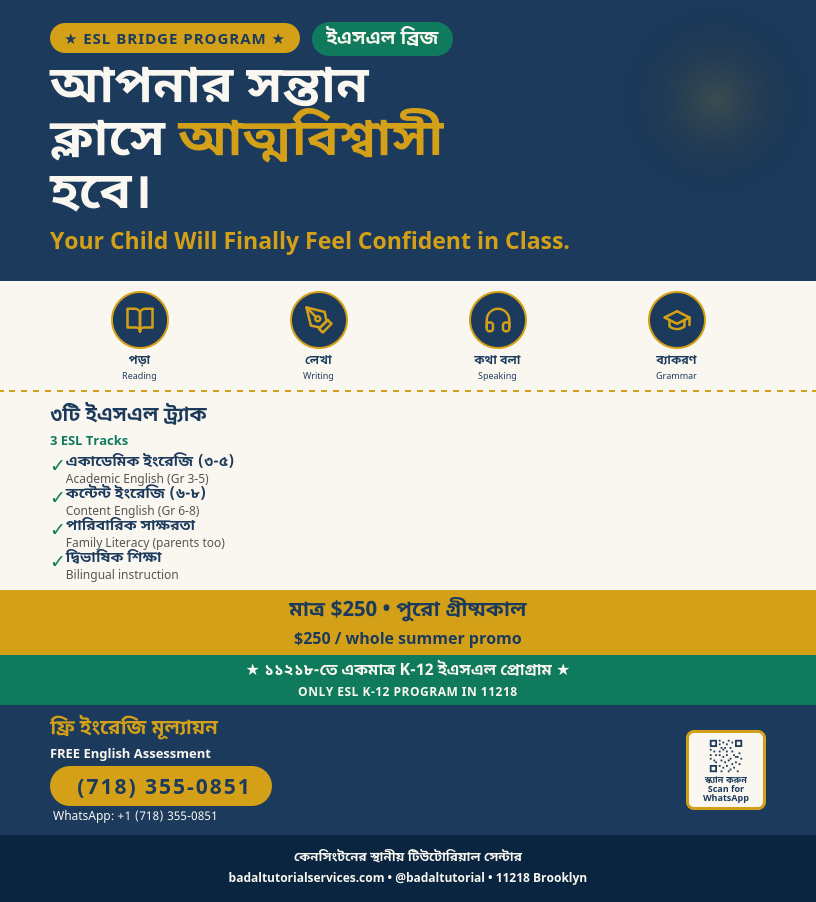
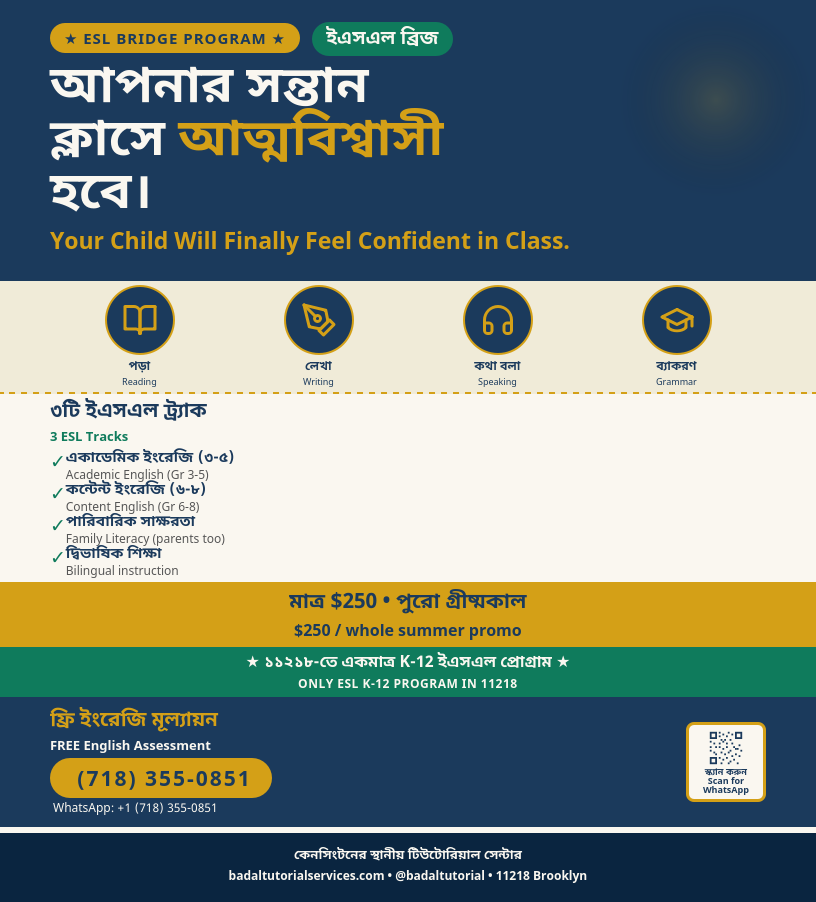
Regents: shrink hero 38pt→34pt, render at 9.5in for visible footer

diff --git a/flyers/regents-bn.html b/flyers/regents-bn.html
@@ -18,7 +18,7 @@
   .hero::before { content: ''; position: absolute; top: 0; right: 0; width: 200px; height: 200px; background: radial-gradient(circle, rgba(212,160,23,0.18) 0%, transparent 70%); }
   .badge { display: inline-block; background: #D4A017; color: #1B3A5C; padding: 4px 14px; border-radius: 18px; font-size: 11pt; font-weight: 700; letter-spacing: 1px; margin-bottom: 10px; font-family: 'BodySans', sans-serif; }
   .badge-bn { display: inline-block; background: #0F7B5C; color: #FAF7F0; padding: 4px 14px; border-radius: 18px; font-size: 14pt; font-weight: 700; margin-left: 8px; font-family: 'BnFont', sans-serif; }
-  .headline-bn { font-family: 'BnFont', 'Noto Sans Bengali', sans-serif; font-size: 38pt; font-weight: 700; line-height: 1.05; color: #FAF7F0; margin-bottom: 6px; }
+  .headline-bn { font-family: 'BnFont', 'Noto Sans Bengali', sans-serif; font-size: 34pt; font-weight: 700; line-height: 1.05; color: #FAF7F0; margin-bottom: 6px; }
   .headline-bn .accent { color: #D4A017; }
   .headline-en { font-family: 'BodySans', sans-serif; font-size: 17pt; font-weight: 900; line-height: 1.1; color: #D4A017; margin-bottom: 4px; }
 
@@ -29,7 +29,7 @@
   .illust-label { font-family: 'BnFont', sans-serif; font-size: 9pt; font-weight: 700; color: #1B3A5C; }
   .illust-label-en { font-family: 'BodySans', sans-serif; font-size: 7pt; color: #1B3A5C; }
 
-  .body-bn { padding: 10px 50px 8px; background: #FAF7F0; }
+  .body-bn { padding: 8px 50px 6px; background: #FAF7F0; }
   .body-title { font-family: 'BnFont', sans-serif; font-size: 15pt; font-weight: 700; color: #1B3A5C; margin-bottom: 1px; }
   .body-title-en { font-family: 'BodySans', sans-serif; font-size: 10pt; font-weight: 700; color: #0F7B5C; margin-bottom: 5px; }
   .body-grid { display: grid; grid-template-columns: 1fr 1fr; gap: 3px 22px; }
@@ -42,7 +42,7 @@
   .price-bn { font-family: 'BnFont', 'Noto Sans Bengali', sans-serif; font-size: 16pt; font-weight: 700; margin-bottom: 1px; }
   .price-en { font-family: 'BodySans', sans-serif; font-size: 12pt; font-weight: 700; }
 
-  .trust { background: #0F7B5C; color: #FAF7F0; padding: 5px 50px; text-align: center; }
+  .trust { background: #0F7B5C; color: #FAF7F0; padding: 4px 50px; text-align: center; }
   .trust-bn { font-family: 'BnFont', sans-serif; font-size: 12pt; font-weight: 700; margin-bottom: 1px; }
   .trust-en { font-family: 'BodySans', sans-serif; font-size: 9pt; font-weight: 700; letter-spacing: 0.5px; }
 

diff --git a/flyers/esl-bn.html b/flyers/esl-bn.html
@@ -23,14 +23,14 @@
   .headline-bn .accent { color: #D4A017; }
   .headline-en { font-family: 'BodySans', sans-serif; font-size: 17pt; font-weight: 900; line-height: 1.1; color: #D4A017; margin-bottom: 4px; }
 
-  .illustration { background: #FAF7F0; padding: 10px 50px 8px; display: flex; justify-content: space-around; align-items: center; gap: 16px; border-bottom: 2px dashed #D4A017; }
+  .illustration { background: #FAF7F0; padding: 4px 50px 4px; display: flex; justify-content: space-around; align-items: center; gap: 16px; border-bottom: 2px dashed #D4A017; }
   .illust-item { text-align: center; }
-  .illust-circle { width: 58px; height: 58px; border-radius: 50%; background: #1B3A5C; display: flex; align-items: center; justify-content: center; margin: 0 auto 4px; border: 2px solid #D4A017; }
-  .illust-circle svg { width: 30px; height: 30px; }
+  .illust-circle { width: 70px; height: 70px; border-radius: 50%; background: #1B3A5C; display: flex; align-items: center; justify-content: center; margin: 0 auto 4px; border: 2px solid #D4A017; }
+  .illust-circle svg { width: 36px; height: 36px; }
   .illust-label { font-family: 'BnFont', sans-serif; font-size: 9pt; font-weight: 700; color: #1B3A5C; }
   .illust-label-en { font-family: 'BodySans', sans-serif; font-size: 7pt; color: #1B3A5C; }
 
-  .body-bn { padding: 10px 50px 8px; background: #FAF7F0; }
+  .body-bn { padding: 4px 50px 4px; background: #FAF7F0; }
   .body-title { font-family: 'BnFont', sans-serif; font-size: 15pt; font-weight: 700; color: #1B3A5C; margin-bottom: 1px; }
   .body-title-en { font-family: 'BodySans', sans-serif; font-size: 10pt; font-weight: 700; color: #0F7B5C; margin-bottom: 5px; }
   .body-grid { display: grid; grid-template-columns: 1fr 1fr; gap: 3px 22px; }
